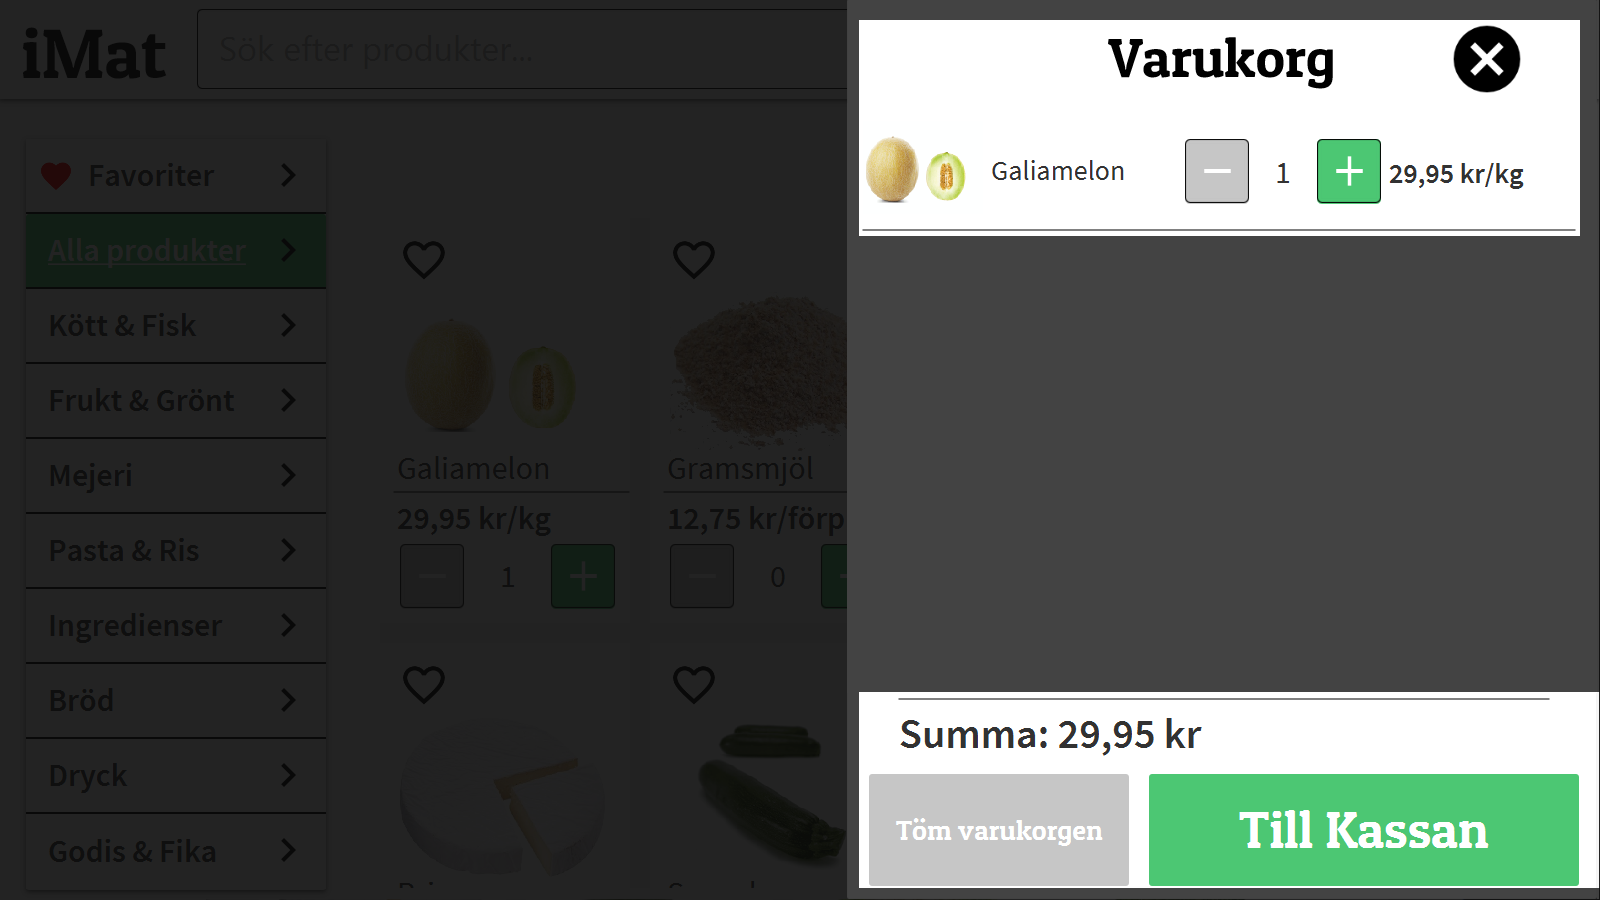
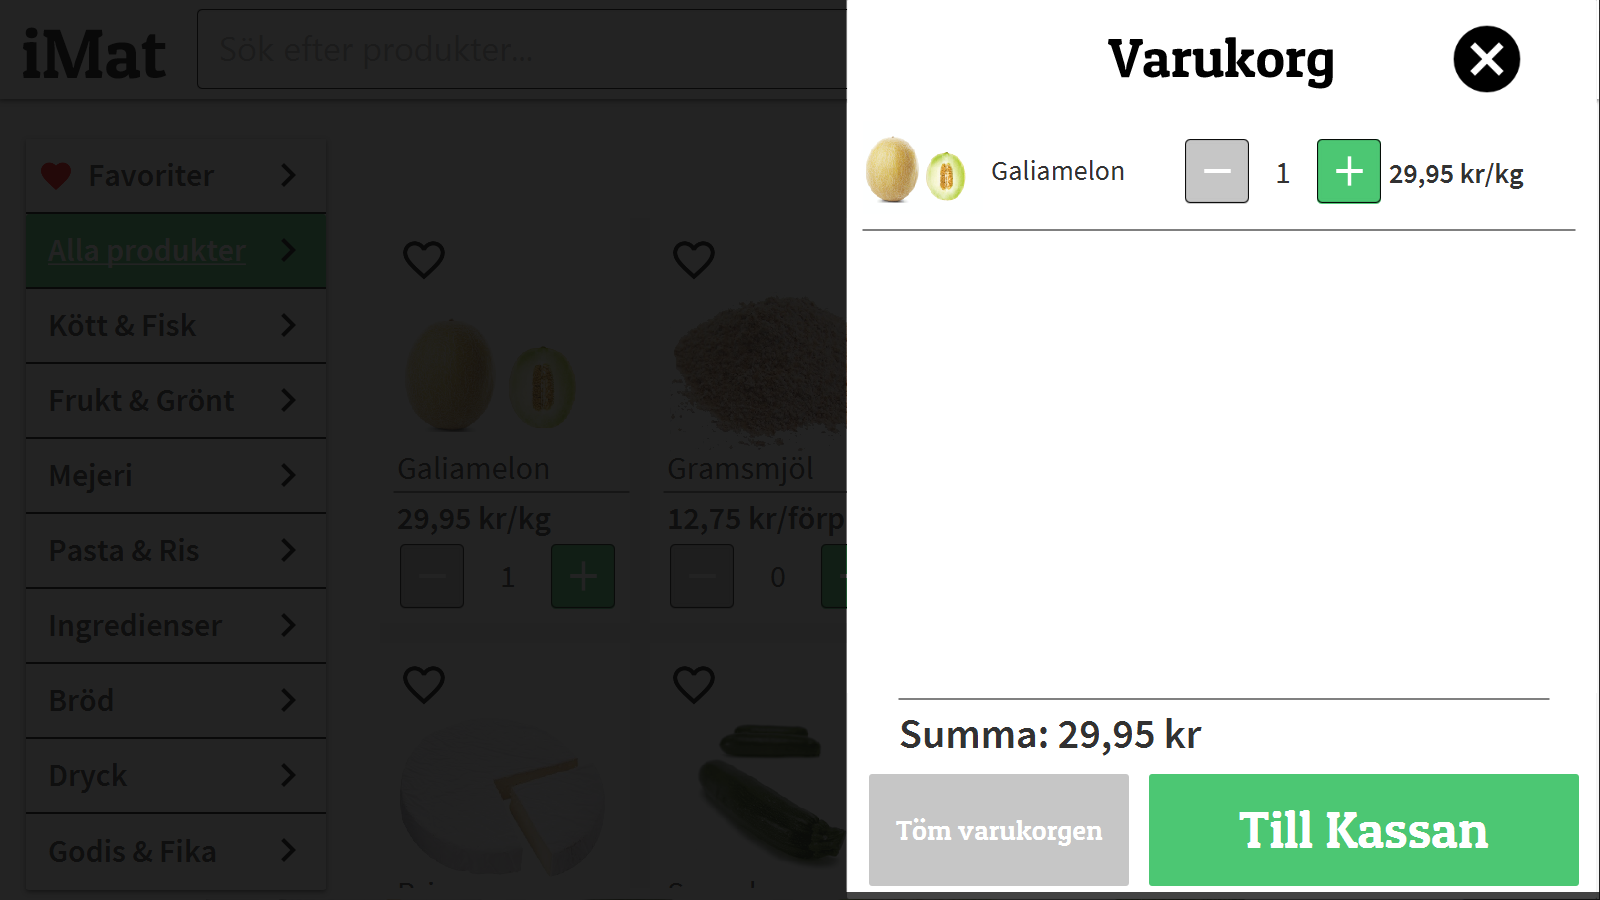
asdas

Changed region(s): [[0.5312, 0.0, 1.0, 0.9956]]

diff --git a/iMat_Projektarbete/out/production/DAT216-iMat/iMat/iMat-design.css b/iMat_Projektarbete/out/production/DAT216-iMat/iMat/iMat-design.css
@@ -264,14 +264,14 @@
     -fx-cursor: hand;
     -fx-alignment: center-left;
 }
-.subsubcategory-button{
+.subsubcategory-button {
     -fx-background-color: rgba(0,0,0,0);
     -fx-border-color: #4cc773;
      -fx-border-width: 3px;
     -fx-border-radius:5;
 
 }
-.subsubcategory-button-on{
+.subsubcategory-button-on {
     -fx-text-fill: white;
     -fx-background-color: #4cc773;
     -fx-border-color: #4cc773;
@@ -355,13 +355,9 @@
 }
 
 .guide-box {
-    /*-fx-background-color: #4078CC;
-    -fx-background-color: white;*/
-    -fx-background-color: #c6c6c6;
+    -fx-background-color: white; /* #c6c6c6 #4078CC */
     -fx-border-radius: 10px;
     -fx-background-radius: 10px;
-    /*-fx-stroke-width: 10px;
-    -fx-stroke-color: rgba(0,0,0,0);*/
 }
 
 .text-color-white {
@@ -378,15 +374,23 @@
     -fx-background-color: #f6f6f6;
 }
 
+.button:hover {
+    -fx-background-color: #f6f6f6;
+}
+
+.closeCartButton:hover {
+    -fx-background-color: rgba(0,0,0,0);
+}
+
 .favourite-button:hover {
     -fx-background-color: rgba(0,0,0,0);
 }
 
-.category-item:hover{
+.category-item:hover, .subsubcategory-button:hover {
     -fx-background-color: rgba(76,199,115,0.3);
 }
 
-.category-item-selected:hover, .button.color-green:hover, .add-button:hover {
+.category-item-selected:hover, .button.color-green:hover, .add-button:hover, .subsubcategory-button-on:hover {
     -fx-background-color: #40ad63;
 }
 

diff --git a/iMat_Projektarbete/src/iMat/iMat-design.css b/iMat_Projektarbete/src/iMat/iMat-design.css
@@ -264,14 +264,14 @@
     -fx-cursor: hand;
     -fx-alignment: center-left;
 }
-.subsubcategory-button{
+.subsubcategory-button {
     -fx-background-color: rgba(0,0,0,0);
     -fx-border-color: #4cc773;
      -fx-border-width: 3px;
     -fx-border-radius:5;
 
 }
-.subsubcategory-button-on{
+.subsubcategory-button-on {
     -fx-text-fill: white;
     -fx-background-color: #4cc773;
     -fx-border-color: #4cc773;
@@ -355,13 +355,9 @@
 }
 
 .guide-box {
-    /*-fx-background-color: #4078CC;
-    -fx-background-color: white;*/
-    -fx-background-color: #c6c6c6;
+    -fx-background-color: white; /* #c6c6c6 #4078CC */
     -fx-border-radius: 10px;
     -fx-background-radius: 10px;
-    /*-fx-stroke-width: 10px;
-    -fx-stroke-color: rgba(0,0,0,0);*/
 }
 
 .text-color-white {
@@ -378,15 +374,23 @@
     -fx-background-color: #f6f6f6;
 }
 
+.button:hover {
+    -fx-background-color: #f6f6f6;
+}
+
+.closeCartButton:hover {
+    -fx-background-color: rgba(0,0,0,0);
+}
+
 .favourite-button:hover {
     -fx-background-color: rgba(0,0,0,0);
 }
 
-.category-item:hover{
+.category-item:hover, .subsubcategory-button:hover {
     -fx-background-color: rgba(76,199,115,0.3);
 }
 
-.category-item-selected:hover, .button.color-green:hover, .add-button:hover {
+.category-item-selected:hover, .button.color-green:hover, .add-button:hover, .subsubcategory-button-on:hover {
     -fx-background-color: #40ad63;
 }
 

diff --git a/iMat_Projektarbete/src/iMat/startscreenController.java b/iMat_Projektarbete/src/iMat/startscreenController.java
@@ -17,11 +17,12 @@ import java.util.ResourceBundle;
 public class startscreenController implements Initializable {
     @FXML
     AnchorPane startscreenRootPane;
-    private   Parent storeParent;
-    private   Scene storeScene;
-    @FXML
-    private void loadStoreFromStartscreen(ActionEvent event){
 
+    private Parent storeParent;
+    private Scene storeScene;
+
+    @FXML
+    private void loadStoreFromStartscreen(ActionEvent event) {
         Stage window = (Stage) ((Node) event.getSource()).getScene().getWindow();
         window.setScene(storeScene);
         window.show();
@@ -40,7 +41,8 @@ public class startscreenController implements Initializable {
     @Override
     public void initialize(URL url, ResourceBundle resourceBundle) {
         iMatController iMatController = new iMatController();
-       iMatController.hashstart();
+        iMatController.hashstart();
+        iMatController.clearShoppingCart();
         System.out.println(iMatController.hashproducts.toString());
         try {
              storeParent = FXMLLoader.load(getClass().getResource("iMat.fxml"));

diff --git a/iMat_Projektarbete/src/iMat/iMatController.java b/iMat_Projektarbete/src/iMat/iMatController.java
@@ -133,7 +133,7 @@ public class iMatController implements Initializable, ShoppingCartListener {
     @FXML
     Button herbButton;
     @FXML
-    Button nutButton    ;
+    Button nutButton;
 
 
 
@@ -141,13 +141,11 @@ public class iMatController implements Initializable, ShoppingCartListener {
     @FXML
     Label cartNumberOfItems;
 
-
     private Boolean FavouriteButtonSelected = false;
 
     public void initialize(URL url, ResourceBundle rb) {
 
         updateProductList(model.getProducts());
-        model.shoppingCart.clear();
         model.shoppingCart.addShoppingCartListener(this);
         System.out.println(hashproducts.toString());
     }
@@ -157,6 +155,10 @@ public class iMatController implements Initializable, ShoppingCartListener {
         for (Product product : allProducts) {
             hashproducts.put(product.getProductId(),new productPanel(product));
         }
+    }
+
+    public void clearShoppingCart() {
+        model.shoppingCart.clear();
     }
 
     @FXML

diff --git a/iMat_Projektarbete/src/iMat/iMat.java b/iMat_Projektarbete/src/iMat/iMat.java
@@ -16,10 +16,13 @@ public class iMat extends Application {
 
 //        IMatDataHandler.getInstance().reset();
 
-        stage.setMinWidth(1600);
-        stage.setMinHeight(900);
-        stage.setMaxWidth(1600);
-        stage.setMaxHeight(900);
+//        stage.setMinWidth(1600);
+//        stage.setMinHeight(900);
+//        stage.setWidth(1600);
+//        stage.setHeight(900);
+//        stage.setMaxWidth(1600);
+//        stage.setMaxHeight(900);
+        stage.setResizable(false);
         stage.setScene(scene);
         stage.show();
     }

diff --git a/iMat_Projektarbete/src/iMat/helpController.java b/iMat_Projektarbete/src/iMat/helpController.java
@@ -36,5 +36,15 @@ public class helpController{
         window.show();
     }
 
+    @FXML
+    private void loadGuide(ActionEvent event) throws IOException {
+        Parent guideParent = FXMLLoader.load(getClass().getResource("guide.fxml"));
+        Scene guideScene = new Scene(guideParent);
+
+        Stage window = (Stage) ((Node) event.getSource()).getScene().getWindow();
+        window.setScene(guideScene);
+        window.show();
+    }
+
 
 }
